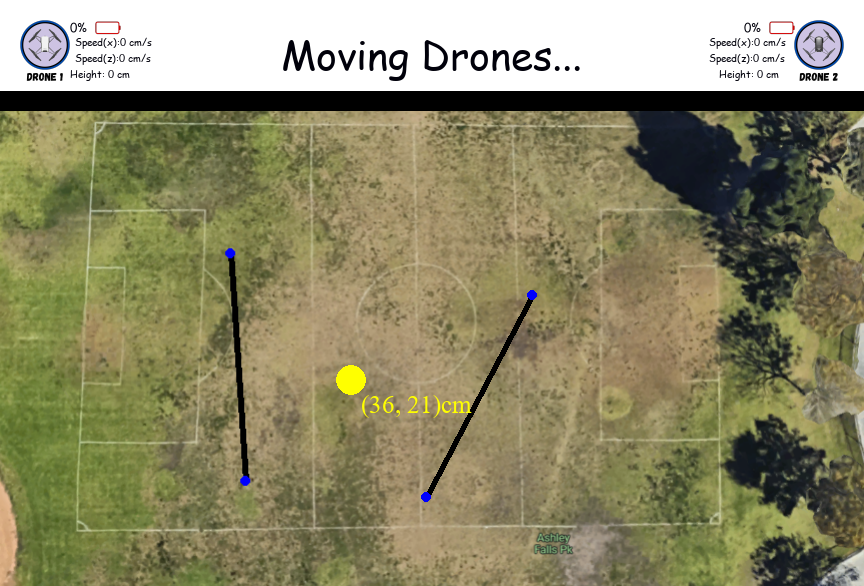
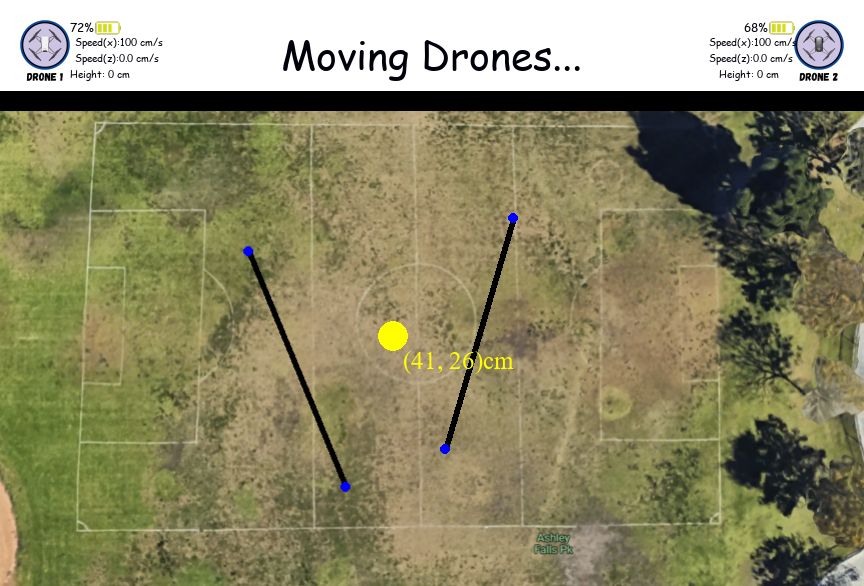
e

diff --git a/customtello.py b/customtello.py
@@ -5,13 +5,14 @@ import cv2
 import numpy as np
 import logging
 import re
+import threading
 
 #set up logging
 logging.basicConfig(level=logging.DEBUG, format='%(asctime)s - %(levelname)s - %(message)s')
 
 #brayden and ryan custom API for drones
 class myTello:
-    def __init__(self, wifi_adapter_ip):
+    def __init__(self, wifi_adapter_ip, video_port):
         self.TELLO_IP = "192.168.10.1"
         self.PORT = 8889
         self.BUFFER_SIZE = 4096
@@ -23,6 +24,8 @@ class myTello:
         self.video_thread = None
         self.running = False
         self.stop_video = False
+        self.VIDEO_PORT = video_port
+        self.connected = False
 
     # Initialize and bind the UDP socket
     def init_socket(self):
@@ -71,8 +74,11 @@ class myTello:
     def connect(self):
         if self.sock is None:
             self.init_socket()
+        if self.connected == False:
         # Connect to the drones by sending the 'command' mode
-        self.send_command("command")
+            self.send_command("command")
+            self.connected = True
+            logging.info("Connected to drone")
 
     def takeoff(self):
         self.send_command("takeoff")
@@ -85,21 +91,19 @@ class myTello:
 
     # Function to decode and display the video stream
     def receive_video(self, droneid):
-        cap = cv2.VideoCapture('udp://@0.0.0.0:11111')
-
+        cap = cv2.VideoCapture(f'udp://@{self.wifi_adapter_ip}:{self.VIDEO_PORT}')
         while self.running:
             if self.stop_video:  # Check if the video stream should stop
                 break
 
             ret, frame = cap.read()
             if ret:
+                frame = cv2.resize(frame, (960, 720))
                 with self.frame_lock:
                     self.frame = frame
-                cv2.imshow(f"Drone {droneid}", self.frame)
-            time.sleep(0.1)
+                #cv2.imshow(f"Drone {droneid}", self.frame)
             if cv2.waitKey(1) & 0xFF == ord('q'):
                 break
-        self.end()
         cap.release()
         cv2.destroyAllWindows()
 
@@ -107,8 +111,22 @@ class myTello:
         with self.frame_lock:
             return self.frame
         
+
+        
     def stop_video_stream(self):
         self.stop_video = True
+        self.running = False
+
+    def stop_drone_video(self):
+        if self.running:
+            self.running = False
+            self.stop_video_stream()  # stop video stream 
+            if self.video_thread is not None:
+                self.video_thread.join()
+            self.frame = None
+            self.frame_lock = Lock()
+            self.video_thread = None
+            logging.info("Stopped video stream")
     
     def emergency(self):
         self.send_command("emergency")
@@ -130,7 +148,8 @@ class myTello:
         self.frame = None
         self.frame_lock = Lock()
         self.video_thread = None
-        logging.info("Disconnect`ed from drone")
+        logging.info("Disconnected from drone")
+        self.connected = False
 
     def moveForward(self, distance):
         # Move drones forward
@@ -163,9 +182,6 @@ class myTello:
     def land(self):
         # Land both drones
         self.send_command("land")
-        self.sock.close()
-        time.sleep(2)
-        self.connect()
 
     def rotateCCW(self, angle):
         self.send_command(f'ccw {abs(angle)}')
@@ -242,3 +258,26 @@ class myTello:
         angular_speed1 = yaw_difference / 1  
         
         return angular_speed1
+
+class VideoProxyServer:
+    def __init__(self, drone_ips, server_ip, base_port):
+        self.drone_ips = drone_ips
+        self.server_ip = server_ip
+        self.base_port = base_port
+
+    def start_proxy(self):
+        for i, drone_ip in enumerate(self.drone_ips):
+            drone_port = 11111  # Tello video port
+            local_port = self.base_port + i
+            start = threading.Thread(target=self.proxy_video, args=(drone_ip, drone_port, local_port))
+            start.start()
+
+    def proxy_video(self, drone_ip, drone_port, local_port):
+        sock = socket.socket(socket.AF_INET, socket.SOCK_DGRAM)
+        sock.bind((self.server_ip, local_port))
+        drone_addr = (drone_ip, drone_port)
+
+        while True:
+            data, _ = sock.recvfrom(4096)
+            sock.sendto(data, drone_addr)
+

diff --git a/main.py b/main.py
@@ -12,18 +12,27 @@ import map
 from localizeIRT import localizer
 import socket
 import os
+from customtello import VideoProxyServer
 from customtello import myTello
+
 import path_planner
 import tello_tracking
 import collision
 import logging
 
 # Define the IP addresses of the two Wi-Fi adapters
-WIFI_ADAPTER_1_IP = "192.168.10.4"  # IP address of Wi-Fi Adapter 1 (connected to Drone 1)
+WIFI_ADAPTER_1_IP = "192.168.10.2"  # IP address of Wi-Fi Adapter 1 (connected to Drone 1)
 WIFI_ADAPTER_2_IP = "192.168.10.3"  # IP address of Wi-Fi Adapter 2 (connected to Drone 2)
 
-drone1 = myTello(WIFI_ADAPTER_1_IP)
-drone2 = myTello(WIFI_ADAPTER_2_IP)
+drone_ips = [WIFI_ADAPTER_1_IP, WIFI_ADAPTER_2_IP]
+server_ip = "192.168.209.193"  # Replace with your actual server IP
+base_port = 10000
+
+#proxy_server = VideoProxyServer(drone_ips, server_ip, base_port)
+#proxy_server.start_proxy()
+
+drone1 = myTello(WIFI_ADAPTER_1_IP, base_port)
+drone2 = myTello(WIFI_ADAPTER_2_IP, base_port + 1)
 
 drone1.connect()
 drone2.connect()
@@ -478,11 +487,6 @@ try:
         else:
             logging.debug("no frame recieved")
             
-    
-
-    if intersection:
-        drone2.send_rc(0, 0, 20, 0)
-
     while not drone_1_terminate and not drone_2_terminate:
 
         img1 = drone1.get_frame_read()
@@ -556,8 +560,10 @@ try:
     drone2.land()
     drone1.streamoff()
     drone2.streamoff()
-    drone1.end()
-    drone2.end()
+    drone1.stop_drone_video()
+    drone2.stop_drone_video()
+    #drone1.end()
+    #drone2.end()
 
 except KeyboardInterrupt:
     logging.info("KeyboardInterrupt received. Landing the drones...")
@@ -565,16 +571,7 @@ except KeyboardInterrupt:
     drone2.land()
     drone1.streamoff()
     drone2.streamoff()
-    drone1.stop_video_stream()
-    drone2.stop_video_stream()
-    drone1.end()
-    drone2.end()
-    drone1.end()
-    drone2.end()
-    drone1.end()
-    drone2.end()
-    drone1.end()
-    drone2.end()
-    drone1.end()
-    drone2.end()
-    
+    drone1.stop_drone_video()
+    drone2.stop_drone_video()
+     #drone1.end()
+    #drone2.end()

diff --git a/SingleDroneControl.py b/SingleDroneControl.py
@@ -11,7 +11,7 @@ start_1_X, start_1_Y, end_1_X, end_1_Y = 0, 0, 300, -300
 path1 = [start_1_X, start_1_Y, end_1_X, end_1_Y]
 
 #other drone path
-path2 = [0, -150, 50, 150]
+path2 = [100, -150, 50, 150]
 
 #drone current values
 drone_1_pos = [path1[0], path1[1], 0] #(X, Y, angle), STARTING ANGLE MUST BE 0 DEGREES
